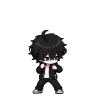
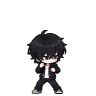
art(combat): 换用同向两段连招素材（左手直拳/右手交叉拳），修正投影抠像与颜色平均，关闭奇数次翻转

diff --git a/Assets/Scripts/World/PlayerCombat.cs b/Assets/Scripts/World/PlayerCombat.cs
@@ -20,9 +20,9 @@ namespace XianXia.World
         public float ComboWindow = 0.8f;     // 这段时间内再按 J 就接下一段
         public float LastHitDamageMul = 1.6f; // 最后一段（收招）的伤害倍率
 
-        // 素材里左手拳朝画面右、右手拳朝画面左。奇数次连招额外翻转，
-        // 让两段普攻都打在同一个方向上。
-        public bool FlipOddHits = true;
+        // 新素材里两段普攻都朝同一侧出拳，所以默认不翻转。
+        // 如果以后换成"左右开弓"的素材，打开这个开关即可让它们统一朝向。
+        public bool FlipOddHits = false;
 
         float _cooldownLeft;
         float _invulnLeft;
